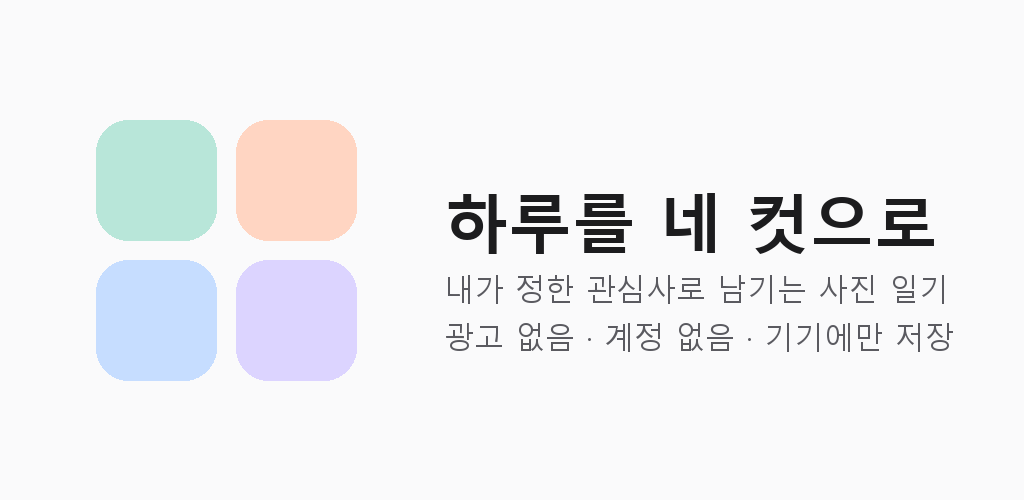
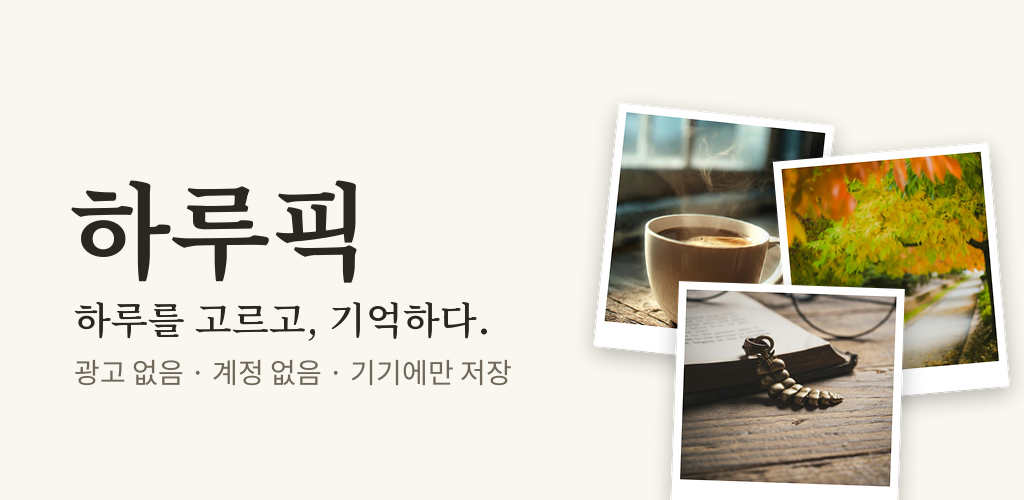
docs: 앱 이름을 하루픽으로 변경 · 소개 페이지 문구 갱신

diff --git a/index.html b/index.html
@@ -3,16 +3,16 @@
 <head>
 <meta charset="UTF-8">
 <meta name="viewport" content="width=device-width, initial-scale=1">
-<title>Moment4 — 오늘 하루를, 내가 정한 관심사 네 컷으로</title>
-<meta name="description" content="인생네컷 프레임에 사진 대신 나의 관심사를 담습니다. 사진 한 장과 한 줄이면 오늘 기록 완료. 인터넷 권한조차 없는 100% 온디바이스 기록 앱.">
+<title>하루픽 — 하루를 고르고, 기억하다.</title>
+<meta name="description" content="오늘의 장면을 고르고, 내가 정한 관심사별 프레임으로 남기는 사진 일기. 사진 한 장이나 한 줄이면 충분합니다. 인터넷 권한조차 없는 100% 온디바이스 기록 앱.">
 <meta name="color-scheme" content="light dark">
 <meta name="theme-color" content="#FFFFFF" media="(prefers-color-scheme: light)">
 <meta name="theme-color" content="#121214" media="(prefers-color-scheme: dark)">
 
 <!-- 공유 미리보기 -->
 <meta property="og:type" content="website">
-<meta property="og:title" content="Moment4 — 오늘 하루를, 내가 정한 관심사 네 컷으로">
-<meta property="og:description" content="사진 한 장과 한 줄이면 오늘 기록 완료. 인터넷 권한조차 없는 온디바이스 기록 앱.">
+<meta property="og:title" content="하루픽 — 하루를 고르고, 기억하다.">
+<meta property="og:description" content="오늘의 장면을 고르고 남기는 사진 일기. 인터넷 권한조차 없는 온디바이스 기록 앱.">
 <meta property="og:locale" content="ko_KR">
 <!-- 절대 URL 이라 저장소 이름을 바꾸면 함께 고쳐야 한다.
      `moment4` 는 비공개 소스 저장소가 이미 쓰고 있어 이 저장소는
@@ -469,7 +469,7 @@ a.btn--primary:hover{transform:translateY(-2px);box-shadow:0 8px 20px rgba(184,2
   <div class="topbar__inner">
     <a class="brand" href="#top">
       <span class="brand__mark" aria-hidden="true"><i></i><i></i><i></i><i></i></span>
-      Moment4
+      하루픽
     </a>
     <nav class="topbar__links" aria-label="주요 메뉴">
       <a href="#how">사용법</a>
@@ -486,11 +486,11 @@ a.btn--primary:hover{transform:translateY(-2px);box-shadow:0 8px 20px rgba(184,2
   <div class="hero__grid">
     <div>
       <p class="eyebrow">하루 한 프레임</p>
-      <h1>오늘 하루를,<br>내가 정한 관심사<br><em>네 컷</em>으로 남깁니다.</h1>
+      <h1>하루를 <em>고르고</em>,<br>기억하다.</h1>
       <p class="lede">
-        인생네컷 프레임에 아무 사진이나 넣는 대신,
-        미리 정해 둔 관심사 하나가 칸 하나가 됩니다.
-        사진 한 장과 한 줄이면 오늘 기록은 끝이에요.
+        오늘의 장면을 고르고,
+        내가 정한 관심사 하나가 칸 하나가 됩니다.
+        사진 한 장이나 한 줄이면 충분해요. 못 채운 칸은 그대로 두어도 괜찮습니다.
       </p>
       <div class="hero__cta">
         <span class="btn btn--primary btn--soon">Google Play에서 곧 만나요</span>
@@ -508,7 +508,7 @@ a.btn--primary:hover{transform:translateY(-2px);box-shadow:0 8px 20px rgba(184,2
             <span class="streak">🔥 12일째</span>
           </div>
           <div class="progress"><div class="progress__bar" id="bar"></div></div>
-          <p class="progress__label" id="barLabel" role="status">오늘 0/4 완성</p>
+          <p class="progress__label" id="barLabel" role="status">오늘 0/4컷</p>
 
           <div class="frame" id="frame">
             <p class="sr-only">관심사 네 칸으로 이루어진 오늘의 프레임 예시입니다. 칸을 눌러 채워 볼 수 있어요.</p>
@@ -537,7 +537,7 @@ a.btn--primary:hover{transform:translateY(-2px);box-shadow:0 8px 20px rgba(184,2
               <span class="slot__filled"><span class="slot__label">💰 투자</span></span>
             </button>
             <div class="confetti" id="confetti" aria-hidden="true"></div>
-            <div class="toast" id="toast" aria-hidden="true">오늘 완성! 🎉</div>
+            <div class="toast" id="toast" aria-hidden="true">오늘의 프레임이 채워졌어요</div>
           </div>
         </div>
       </div>
@@ -578,7 +578,7 @@ a.btn--primary:hover{transform:translateY(-2px);box-shadow:0 8px 20px rgba(184,2
 
       <article class="step reveal">
         <h3>프레임이 쌓입니다</h3>
-        <p>완성한 프레임은 달력과 잔디 히트맵에 남습니다. 날짜순으로도, 관심사순으로도 지난 기록을 되짚어 볼 수 있어요.</p>
+        <p>남긴 하루는 달력과 잔디 히트맵에 쌓입니다. 날짜순으로도, 관심사순으로도 지난 기록을 되짚어 볼 수 있어요.</p>
       </article>
     </div>
   </div>
@@ -595,9 +595,9 @@ a.btn--primary:hover{transform:translateY(-2px);box-shadow:0 8px 20px rgba(184,2
 
     <div class="features">
       <article class="feature reveal">
-        <div class="feature__icon" style="background:var(--peach-soft)" aria-hidden="true">🔥</div>
-        <h3>스트릭과 보호권</h3>
-        <p>하루 한 칸만 채워도 연속 기록이 이어집니다. 7일마다 보호권이 하나씩 쌓여서(최대 3개), 하루쯤 놓쳐도 0으로 돌아가지 않아요.</p>
+        <div class="feature__icon" style="background:var(--peach-soft)" aria-hidden="true">🍃</div>
+        <h3>부담 없는 기록</h3>
+        <p>연속 기록도, 완성률도 없습니다. 오늘 남긴 만큼이 오늘의 기록이고, 며칠 쉬어도 그대로예요. 알림도 오늘 아직 남기지 않았을 때만 와요.</p>
       </article>
 
       <article class="feature reveal">
@@ -614,14 +614,14 @@ a.btn--primary:hover{transform:translateY(-2px);box-shadow:0 8px 20px rgba(184,2
 
       <article class="feature reveal">
         <div class="feature__icon" style="background:var(--lavender-soft)" aria-hidden="true">📊</div>
-        <h3>통계와 배지 20종</h3>
-        <p>관심사 비율, 주간 추이, 가장 부지런한 요일까지. 첫 기록부터 100일 연속까지, 모으는 재미가 있는 배지도 함께요.</p>
+        <h3>통계와 배지</h3>
+        <p>관심사 비율, 주간 추이, 자주 남긴 요일까지. 기록이 쌓이면 모이는 배지도 함께요.</p>
       </article>
 
       <article class="feature reveal">
         <div class="feature__icon" style="background:var(--lemon-soft)" aria-hidden="true">📤</div>
         <h3>프레임 내보내기</h3>
-        <p>완성한 하루를 한 장의 이미지로 저장합니다. 화이트 클래식·파스텔 그라데이션·필름·폴라로이드 네 가지 스킨 중에 고르세요.</p>
+        <p>오늘 남긴 장면을 한 장의 이미지로 저장합니다. 화이트 클래식·파스텔 그라데이션·필름·폴라로이드·크래프트 다섯 가지 스킨 중에 고르세요.</p>
       </article>
 
       <article class="feature reveal">
@@ -641,7 +641,7 @@ a.btn--primary:hover{transform:translateY(-2px);box-shadow:0 8px 20px rgba(184,2
         <p class="eyebrow">개인정보</p>
         <h2>보낼 곳이 없으니,<br>새어 나갈 곳도 없습니다.</h2>
         <p>
-          Moment4에는 인터넷 권한 자체가 없습니다. 사진도 메모도 기기 안 저장 공간에만 머물고,
+          하루픽에는 인터넷 권한 자체가 없습니다. 사진도 메모도 기기 안 저장 공간에만 머물고,
           서버로 올라가지 않아요. 계정도 로그인도 필요 없습니다.
         </p>
         <p>
@@ -685,7 +685,7 @@ a.btn--primary:hover{transform:translateY(-2px);box-shadow:0 8px 20px rgba(184,2
     <ul class="price__list">
       <li><span class="yes" aria-hidden="true">✓</span>기록 작성과 수정</li>
       <li><span class="yes" aria-hidden="true">✓</span>달력·갤러리·통계 전부</li>
-      <li><span class="yes" aria-hidden="true">✓</span>스트릭·배지·알림</li>
+      <li><span class="yes" aria-hidden="true">✓</span>통계·배지·알림</li>
       <li><span class="yes" aria-hidden="true">✓</span>백업과 복원</li>
     </ul>
   </div>
@@ -708,7 +708,7 @@ a.btn--primary:hover{transform:translateY(-2px);box-shadow:0 8px 20px rgba(184,2
   <div class="footer__inner">
     <a class="brand" href="#top">
       <span class="brand__mark" aria-hidden="true"><i></i><i></i><i></i><i></i></span>
-      Moment4
+      하루픽
     </a>
     <nav class="footer__links" aria-label="푸터 메뉴">
       <a href="privacy.html">개인정보처리방침</a>
@@ -768,7 +768,7 @@ a.btn--primary:hover{transform:translateY(-2px);box-shadow:0 8px 20px rgba(184,2
   function updateCount(){
     var n = frame.querySelectorAll('.slot.is-filled').length;
     bar.style.width = (n / slots.length * 100) + '%';
-    barLabel.textContent = '오늘 ' + n + '/' + slots.length + ' 완성';
+    barLabel.textContent = '오늘 ' + n + "/" + slots.length + "컷";
     if (n === slots.length) celebrate();
   }
 

diff --git a/privacy.html b/privacy.html
@@ -3,7 +3,7 @@
 <head>
 <meta charset="utf-8">
 <meta name="viewport" content="width=device-width, initial-scale=1">
-<title>Moment4 개인정보처리방침</title>
+<title>하루픽 개인정보처리방침</title>
 <style>
   :root {
     --bg: #FAFAFB; --surface: #FFFFFF; --border: #EEEFF2;
@@ -52,10 +52,10 @@
 <body>
 <main>
 
-<h1>Moment4 개인정보처리방침</h1>
+<h1>하루픽 개인정보처리방침</h1>
 <p class="date">시행일: 2026년 8월 22일</p>
 
-<p>Moment4(이하 “앱”)는 하루를 관심사별 네 컷으로 남기는 사진 일기 앱입니다.
+<p>하루픽(이하 “앱”)는 하루를 관심사별 프레임으로 남기는 사진 일기 앱입니다.
 이 방침은 앱이 이용자의 정보를 어떻게 다루는지 설명합니다.</p>
 
 <div class="lead">
@@ -124,7 +124,7 @@
 <p>정보는 이용자가 지울 때까지 기기에 보관됩니다.</p>
 <ul>
   <li>개별 기록: 앱 안에서 해당 기록을 삭제</li>
-  <li>전체 삭제: 앱을 삭제하거나, 기기 설정 → 앱 → Moment4 → 저장공간 → 데이터 삭제</li>
+  <li>전체 삭제: 앱을 삭제하거나, 기기 설정 → 앱 → 하루픽 → 저장공간 → 데이터 삭제</li>
 </ul>
 <p>개발자가 보관하는 사본이 없으므로 <strong>개발자에게 삭제를 요청할 대상이
 없습니다.</strong></p>
@@ -144,7 +144,7 @@
   <li>이메일: <a href="mailto:pypielab@gmail.com">pypielab@gmail.com</a></li>
 </ul>
 
-<footer>Moment4 · 하루를 네 컷으로 · <a href="index.html">소개 페이지</a></footer>
+<footer>하루픽 · 하루를 고르고, 기억하다. · <a href="index.html">소개 페이지</a></footer>
 
 </main>
 </body>

diff --git a/README.md b/README.md
@@ -1,6 +1,6 @@
-# Moment4
+# 하루픽
 
-하루를 관심사 네 컷으로 남기는 사진 일기 앱(Android)의 소개 페이지와
+하루를 고르고 기억하는 사진 일기 앱(Android)의 소개 페이지와
 개인정보처리방침입니다.
 
 - 소개: <https://pypielab.github.io/privacy-policy/>
